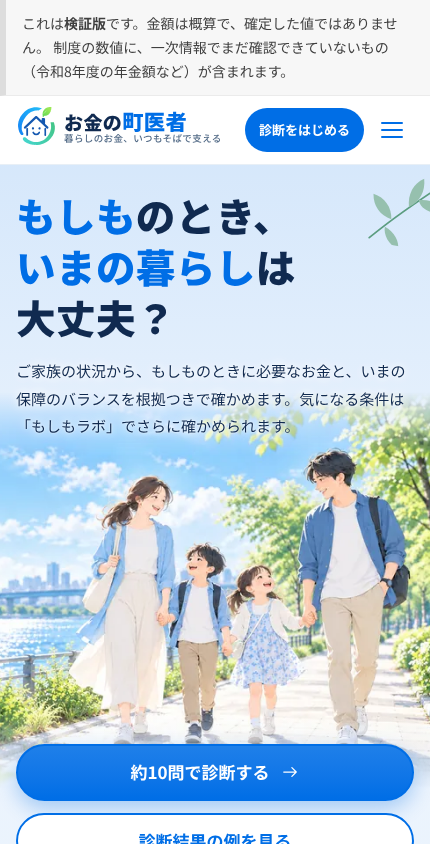
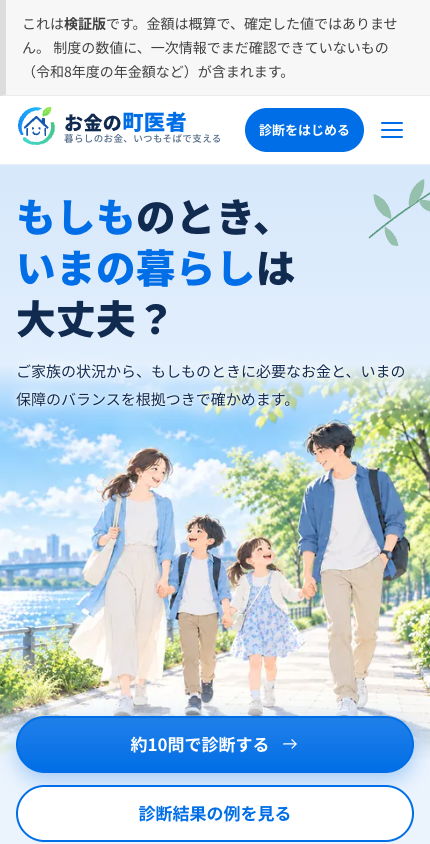
fix(top): スマホのファーストビューから「気になる条件は『もしもラボ』で」の一文を外す
ファーストビューに入れるには長いため。もしもラボへの案内は下のラボの節にある。
使われなくなった .mobileOnly も消し、トップのスクリーンショットを撮り直す。

diff --git a/app/page.tsx b/app/page.tsx
@@ -217,9 +217,6 @@ export default function Home() {
               </h1>
               <p className={s.heroLead}>
                 ご家族の状況から、もしものときに必要なお金と、いまの保障のバランスを根拠つきで確かめます。
-                <span className={s.mobileOnly}>
-                  気になる条件は「もしもラボ」でさらに確かめられます。
-                </span>
               </p>
             </div>
             <div className={s.heroActions}>

diff --git a/app/top/top.module.css b/app/top/top.module.css
@@ -54,9 +54,6 @@
 .nowrap {
   white-space: nowrap;
 }
-.mobileOnly {
-  display: inline;
-}
 
 .skip {
   position: absolute;
@@ -1428,9 +1425,6 @@
   }
   .main {
     display: block;
-  }
-  .mobileOnly {
-    display: none;
   }
   .nav {
     display: flex;
